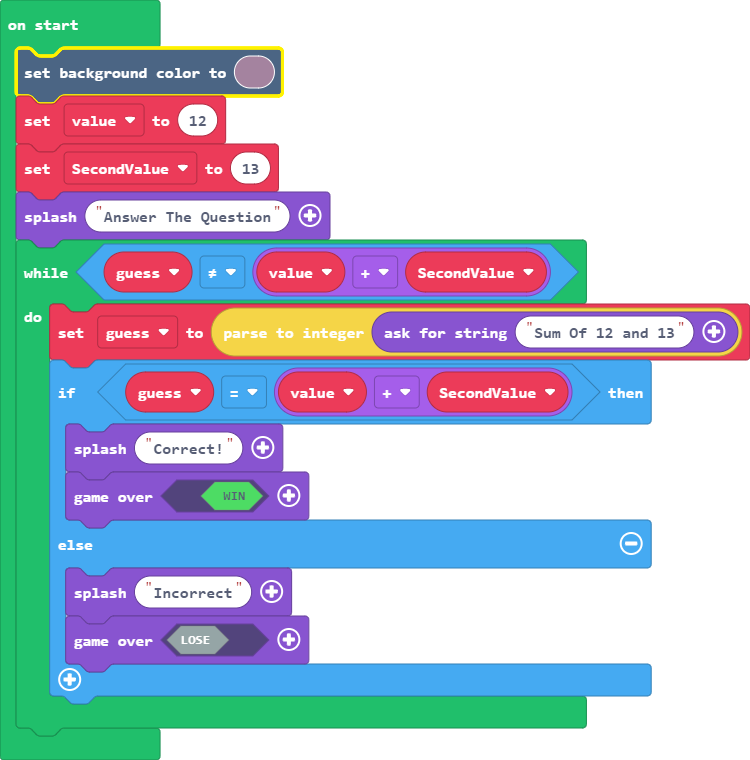
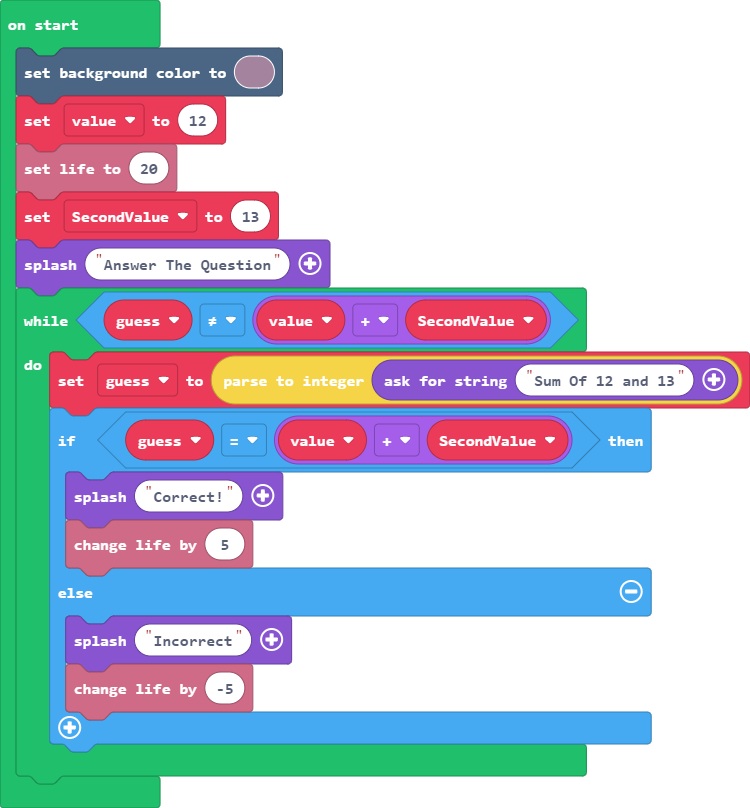
Update main.ts, main.blocks

diff --git a/main.ts b/main.ts
@@ -1,15 +1,16 @@
 let guess = 0
 scene.setBackgroundColor(11)
 let value = 12
+info.setLife(20)
 let SecondValue = 13
 game.splash("Answer The Question")
 while (guess != value + SecondValue) {
     guess = parseInt(game.askForString("Sum Of 12 and 13"))
     if (guess == value + SecondValue) {
         game.splash("Correct!")
-        game.over(true)
+        info.changeLifeBy(5)
     } else {
         game.splash("Incorrect")
-        game.over(false)
+        info.changeLifeBy(-5)
     }
 }
